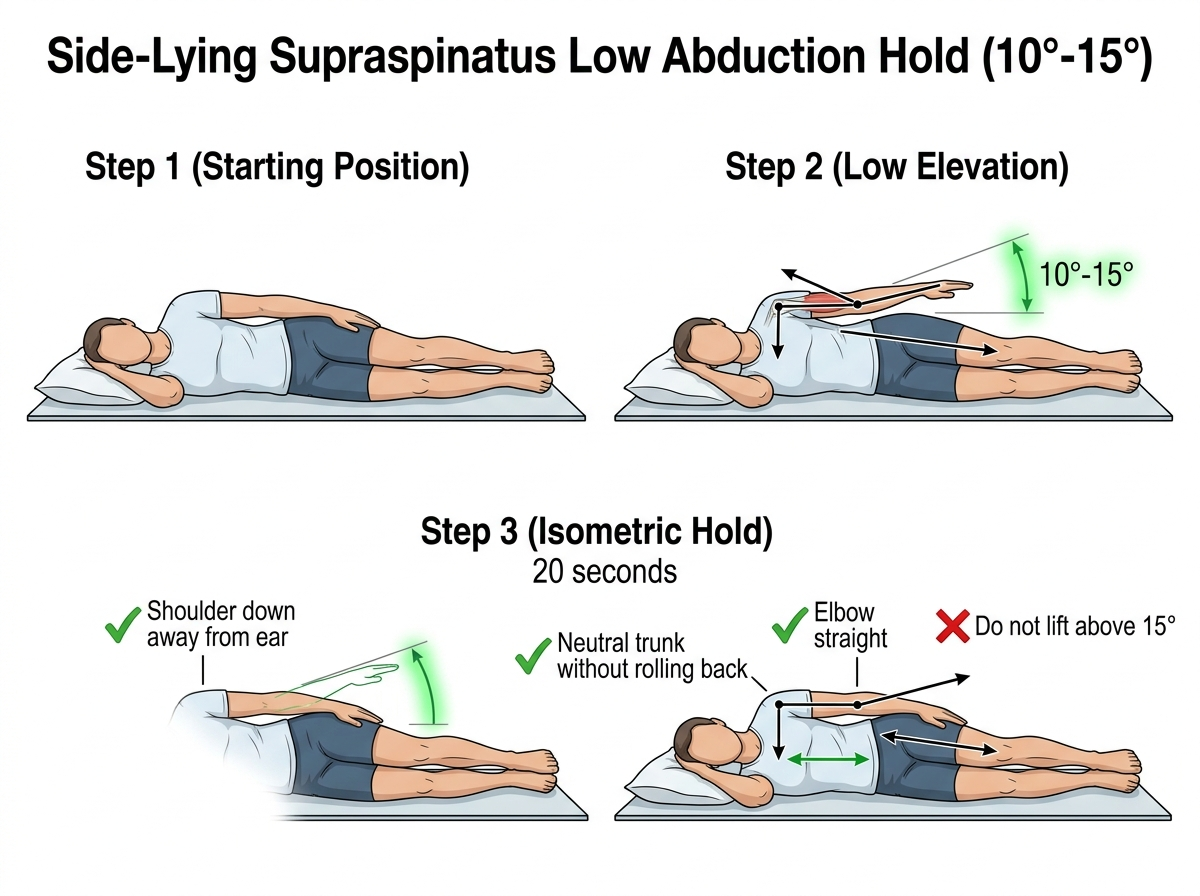
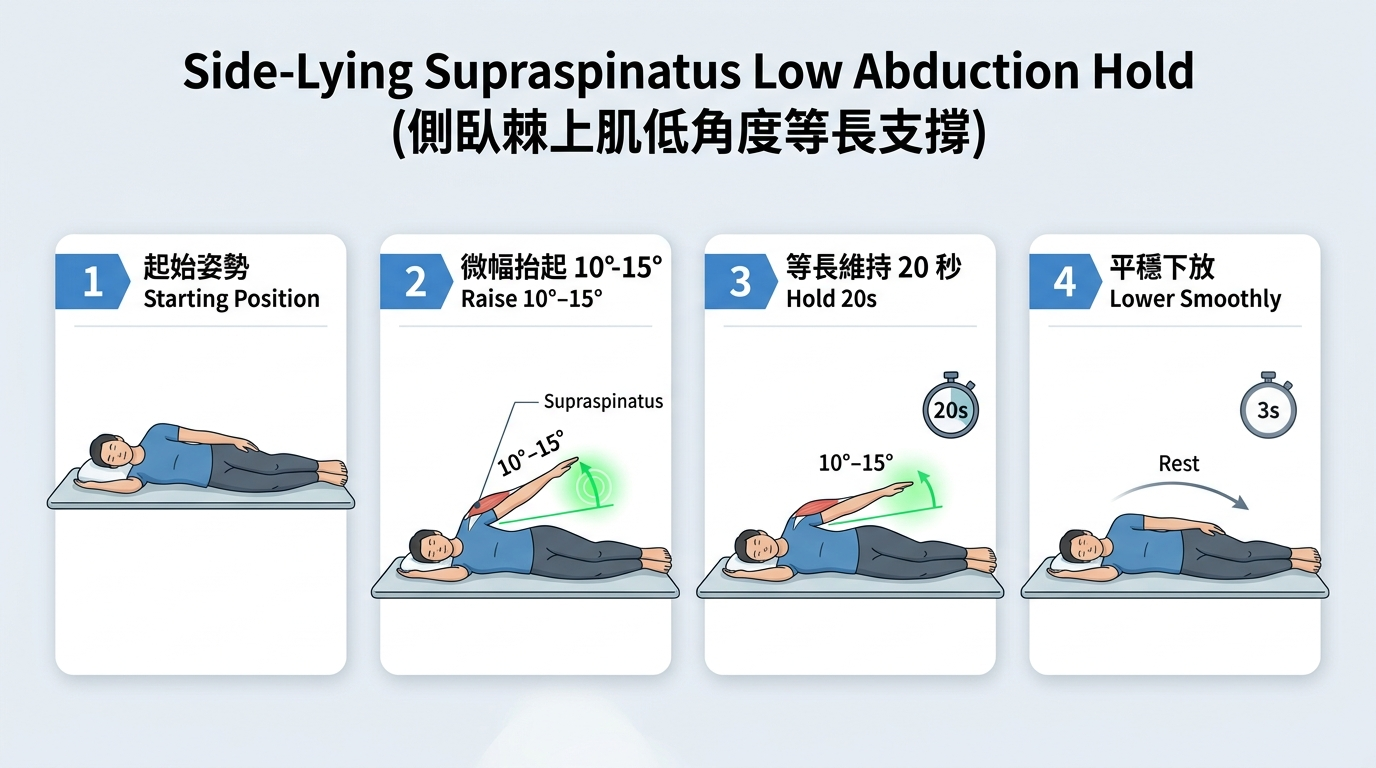
fix: render full 16:9 uncropped motion diagrams across all exercises

diff --git a/src/styles/rehab.css b/src/styles/rehab.css
@@ -1340,21 +1340,28 @@
 
 .routine-card__diagram-wrapper {
   width: 100%;
-  background: rgba(15, 23, 42, 0.4);
-  border: 1px solid var(--mat-hairline);
-  border-radius: var(--r-lg);
-  padding: var(--s-2);
+  flex-shrink: 0;
+  background: rgba(255, 255, 255, 0.78);
+  border: 1px solid rgba(255, 255, 255, 0.95);
+  border-radius: var(--r-xl);
+  padding: var(--s-3);
   overflow: hidden;
-  box-shadow: var(--shadow-sm);
+  box-shadow:
+    0 12px 28px -6px rgba(15, 23, 42, 0.08),
+    inset 0 1px 1px rgba(255, 255, 255, 0.95);
+  backdrop-filter: blur(16px);
+  -webkit-backdrop-filter: blur(16px);
   display: flex;
   justify-content: center;
+  align-items: center;
+  box-sizing: border-box;
 }
 
 .routine-card__diagram-img {
   width: 100%;
-  max-width: 100%;
   height: auto;
-  border-radius: var(--r-md);
+  aspect-ratio: 16 / 9;
+  border-radius: var(--r-lg);
   display: block;
   object-fit: contain;
 }
@@ -2772,22 +2779,27 @@
 
 .exercise-detail-diagram-wrap {
   width: 100%;
-  background: #090e1a;
-  border: 1px solid rgba(255, 255, 255, 0.4);
+  flex-shrink: 0;
+  background: rgba(255, 255, 255, 0.78);
+  border: 1px solid rgba(255, 255, 255, 0.95);
   border-radius: var(--r-xl);
   padding: var(--s-3);
   overflow: hidden;
-  box-shadow: 0 12px 32px rgba(0, 0, 0, 0.22);
+  box-shadow:
+    0 12px 32px -4px rgba(15, 23, 42, 0.1),
+    inset 0 1.5px 1px rgba(255, 255, 255, 0.95);
+  backdrop-filter: blur(20px);
+  -webkit-backdrop-filter: blur(20px);
   display: flex;
   justify-content: center;
   align-items: center;
   box-sizing: border-box;
-  max-height: 500px;
 }
 
 .exercise-detail-diagram-img {
   width: 100%;
-  max-height: 480px;
+  height: auto;
+  aspect-ratio: 16 / 9;
   border-radius: var(--r-lg);
   display: block;
   object-fit: contain;

diff --git a/src/domain/exerciseCatalog.ts b/src/domain/exerciseCatalog.ts
@@ -261,7 +261,7 @@ export const EXERCISE_CATALOG: ExerciseDefinition[] = [
       PACING_TOO_SLOW: 'Tempo too slow',
     },
     thumbnailUrl: 'images/thumb-lateral-abduction.jpg',
-    diagramUrl: 'images/standing-arm-flexion-guide.jpg',
+    diagramUrl: 'images/lateral-abduction-guide.jpg',
     status: 'upcoming',
   },
   {
@@ -320,7 +320,7 @@ export const EXERCISE_CATALOG: ExerciseDefinition[] = [
       PACING_TOO_SLOW: 'Tempo too slow',
     },
     thumbnailUrl: 'images/thumb-scaption.jpg',
-    diagramUrl: 'images/standing-arm-flexion-guide.jpg',
+    diagramUrl: 'images/scaption-guide.jpg',
     status: 'upcoming',
   },
   {
@@ -379,7 +379,7 @@ export const EXERCISE_CATALOG: ExerciseDefinition[] = [
       PACING_TOO_SLOW: 'Tempo too slow',
     },
     thumbnailUrl: 'images/thumb-external-rotation.jpg',
-    diagramUrl: 'images/seated-desk-flexion-guide.jpg',
+    diagramUrl: 'images/external-rotation-guide.jpg',
     status: 'upcoming',
   },
   {

diff --git a/src/components/RoutineDetailModal.tsx b/src/components/RoutineDetailModal.tsx
@@ -85,12 +85,11 @@ export function RoutineDetailModal({
 
         {/* Thumbnail Preview Banner */}
         {routine.thumbnailUrl && (
-          <div className="exercise-detail-diagram-wrap" style={{ maxHeight: '360px' }}>
+          <div className="exercise-detail-diagram-wrap">
             <img
               src={assetUrl(routine.thumbnailUrl)}
               alt={r.name}
               className="exercise-detail-diagram-img"
-              style={{ maxHeight: '340px' }}
             />
           </div>
         )}
